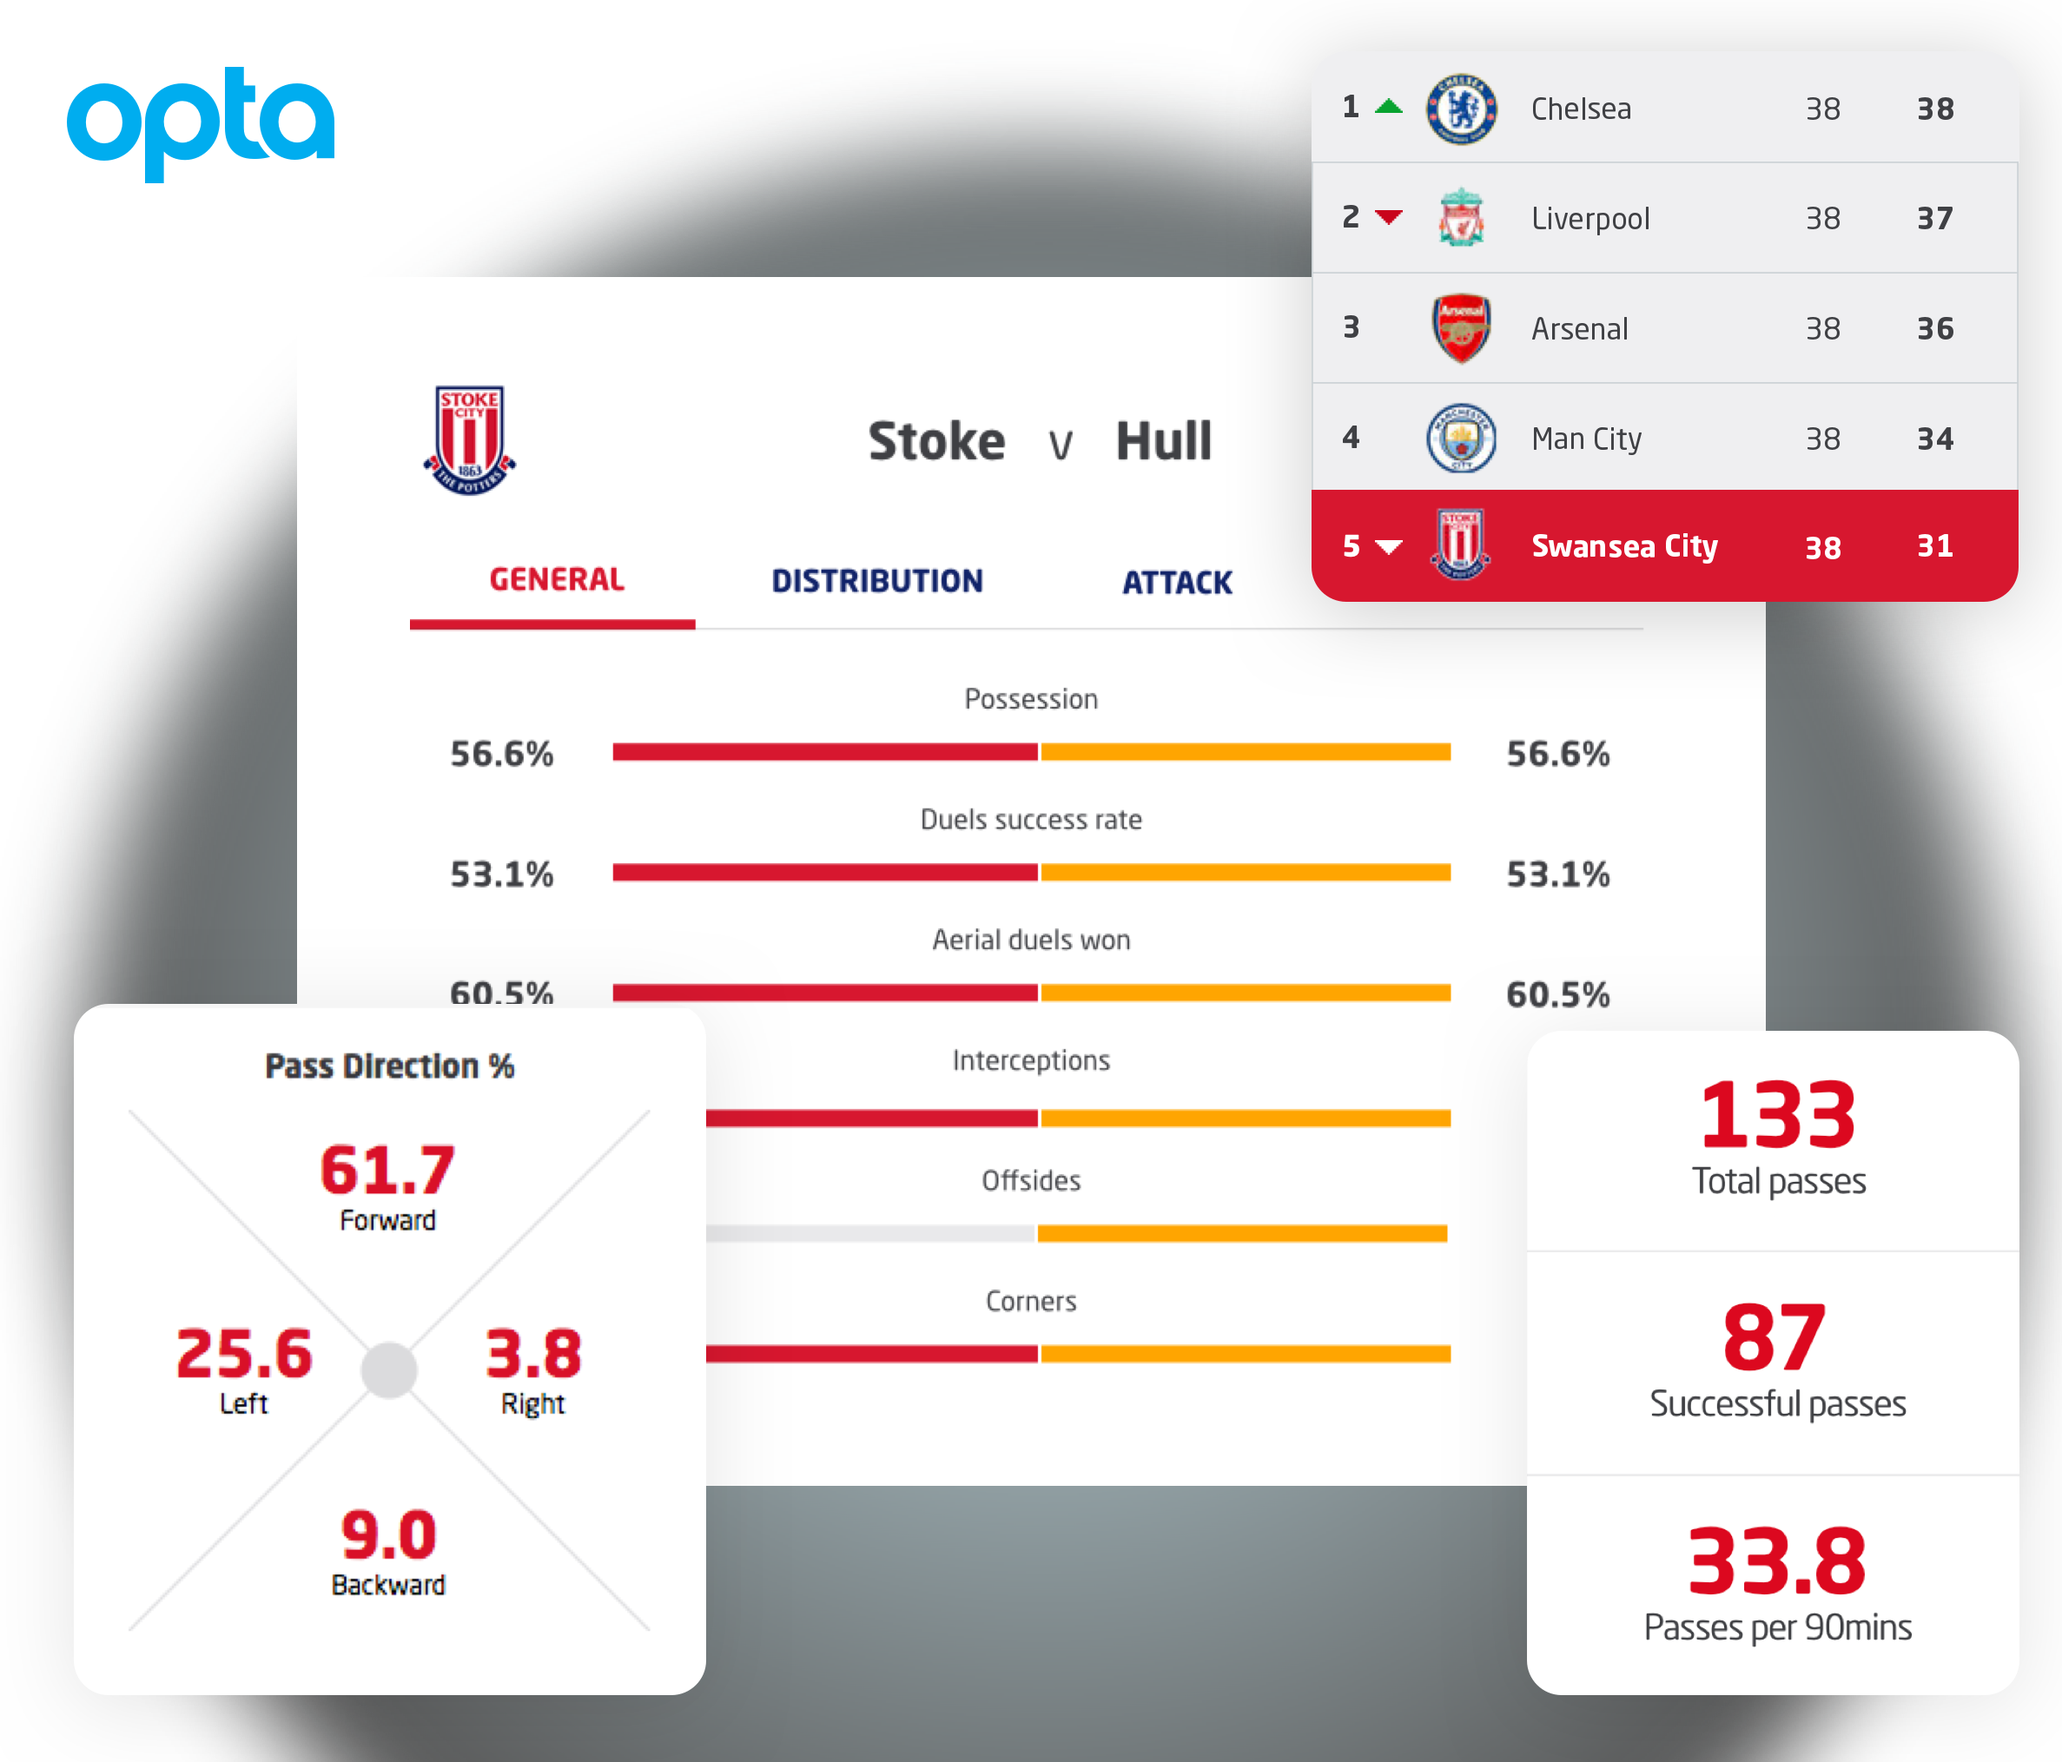
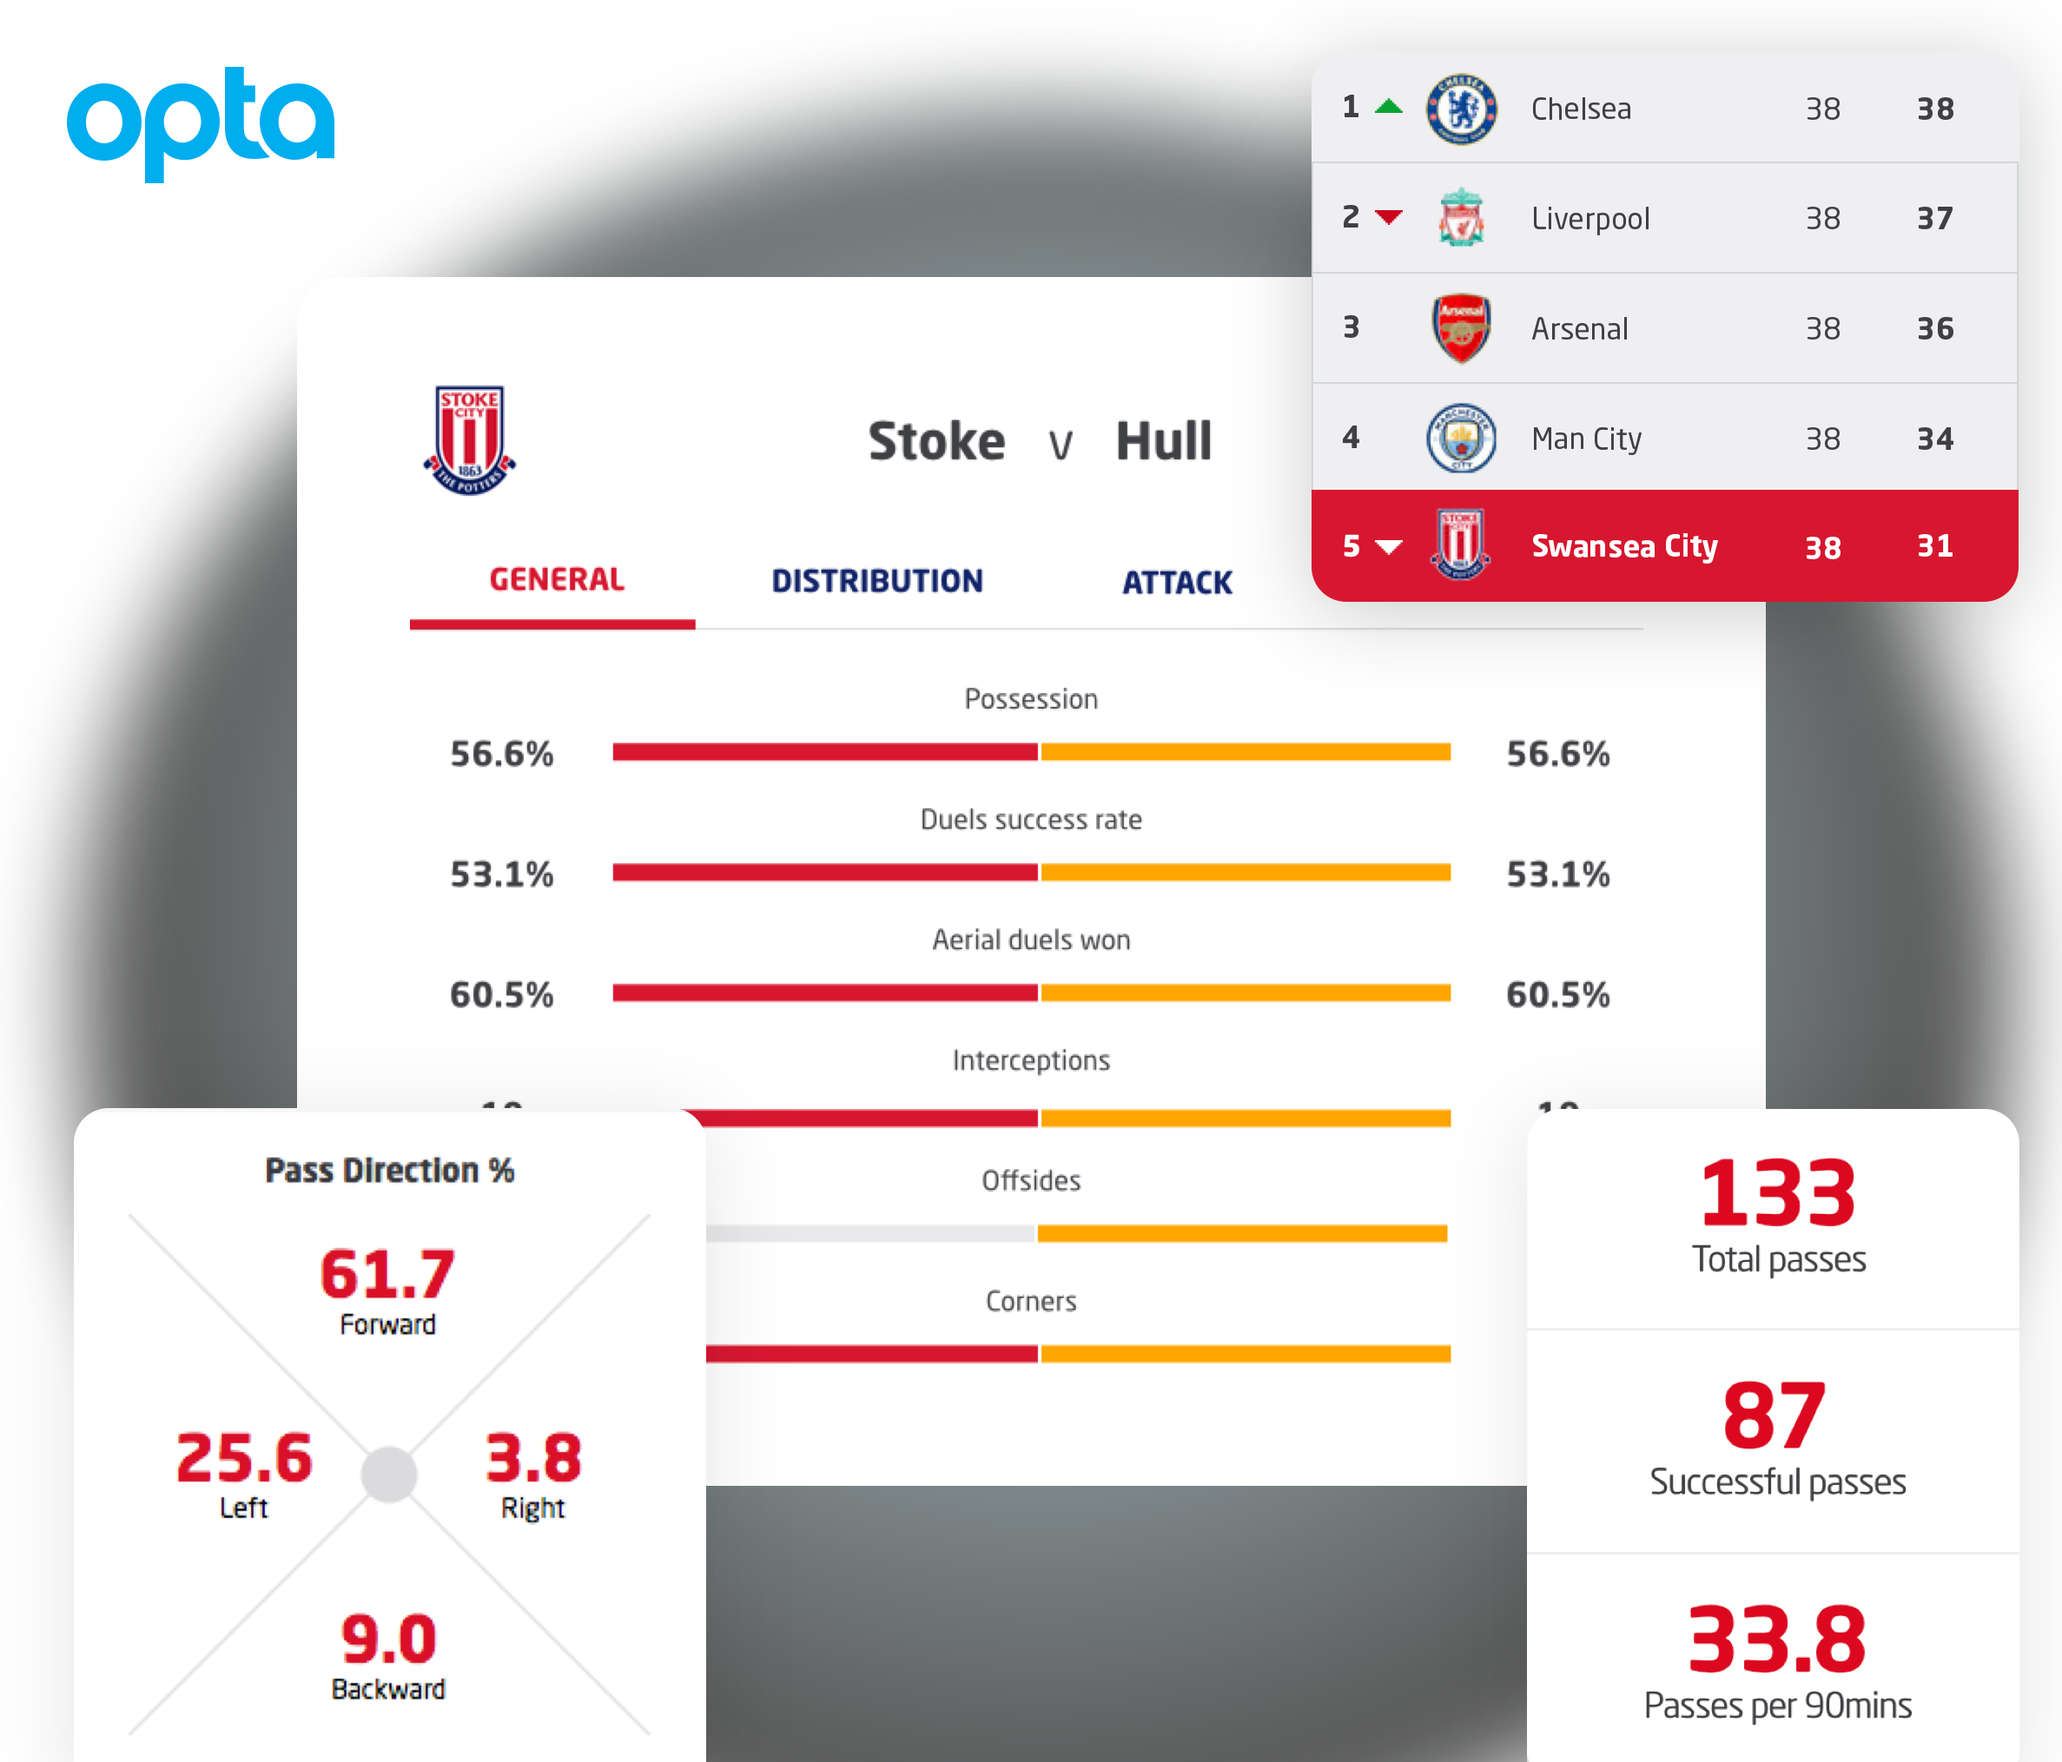
opta image

Changed region(s): [[0.0, 0.2173, 0.9975, 1.0], [0.187, 0.031, 0.6546, 0.1552], [0.9663, 0.6831, 0.9975, 0.7762]]

diff --git a/css/main.css b/css/main.css
@@ -42,6 +42,14 @@ body#lfc nav{
 .darkbg.thumbnail img{
     margin-top:-180px;
 }
+.darkbg.thumbnail-opta{
+    background: #101419;
+    padding:0 0 0 0;
+    display: flow-root;
+}
+.darkbg.thumbnail-opta img{
+    margin-top:-120px;
+}
   .container.key-projects{
     min-height: 820px;
 
@@ -1426,7 +1434,7 @@ height: 1080px;
                 background-position: right;
             }
 
-            .darkbg.thumbnail img{
+            .darkbg.thumbnail img, .darkbg.thumbnail-opta img{
                 margin-top:0;
             }
             #case-study-summary{

diff --git a/playmaker-platform.html b/playmaker-platform.html
@@ -93,7 +93,7 @@
 </div>
 
 
-<div class="darkbg thumbnail">
+<div class="darkbg thumbnail-opta">
 <div class="container screenshot">
 	<div class="screenshot-info sticky-content">
 		<h3>Opta stats</h3>
